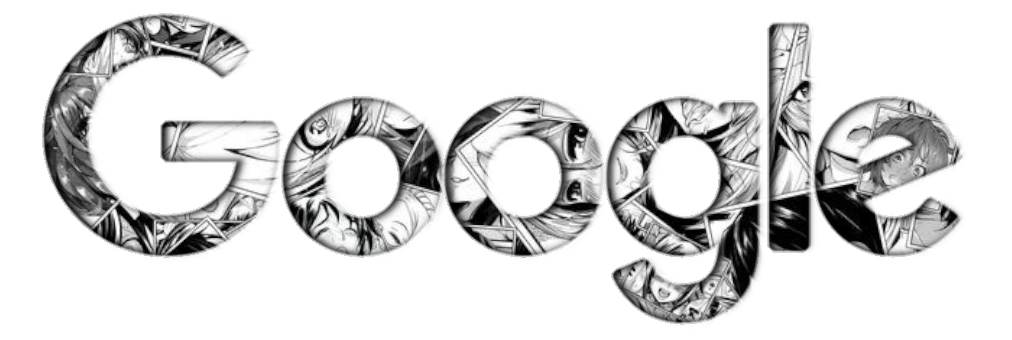
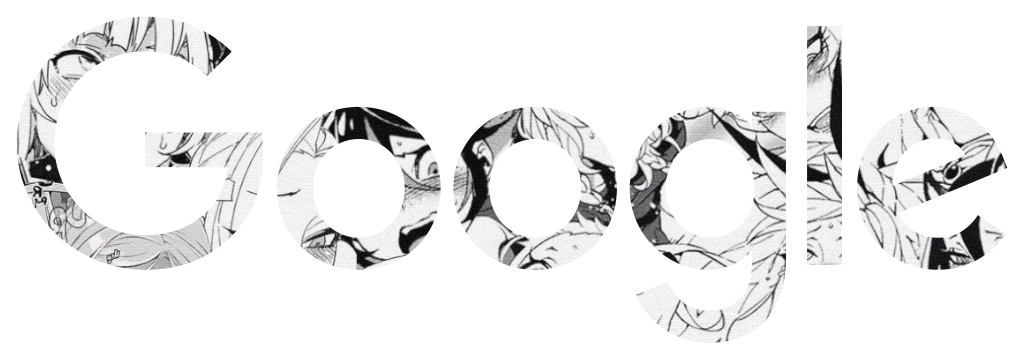
Made a total 0f 11 images and removed the original.  Removed debugging snippet.

Changed region(s): [[0.0, 0.0294, 0.9802, 0.9706]]

diff --git a/index.html b/index.html
@@ -41,7 +41,7 @@
 		</div> <!--BANNER STOP-->
 
 		<br><table class=main><td><tr><br>
-			<center><a href="https://www.google.com"><img src="" alt="" width="400px" id="google"></a></center><br>
+			<center><a href="https://www.google.com"><img src="" alt="Google" width="400px" id="google"></a></center><br>
 			<center><form action="https://www.google.com/search" class="searchform" method="get" name="searchform" target="_self">
 				<input autocomplete="on" class="form-control search" name="q" placeholder="Lorem ipsum dolor sit amet, consectetur adipiscing elit. Aenean tempus fermentum augue vel vulputate. Duis finibus rhoncus libero vel volutpat. Aliquam semper vitae risus sit amet maximus." required="required" type="text" autofocus>     <button class="button" type="submit"><b>SEARCH</b></button></form></center><br><br>
 		</tr></td></table><br>
@@ -62,10 +62,9 @@
 					var subredditShow = document.getElementById("subreddits");
 					if (subredditShow.style.display == "block") {subredditShow.style.display = "none";} else {subredditShow.style.display = "block";}
 				}
-								var rand_num = Math.floor(Math.random() * 5 + 1);
+								var rand_num = Math.floor(Math.random() * 11 + 1);
 				rand_google = "gfx/google/google_" +rand_num +".png";
 				document.getElementById('google').src=rand_google;
-				document.getElementById('google').alt=rand_google;
 			</script>
 			<noscript>Javascript is disabled...</noscript>
 			<a href="https://www.bellingcat.com/" target="_self"><img src="/gfx/bellingcat.png" class="link_news" title="World news."></a>
